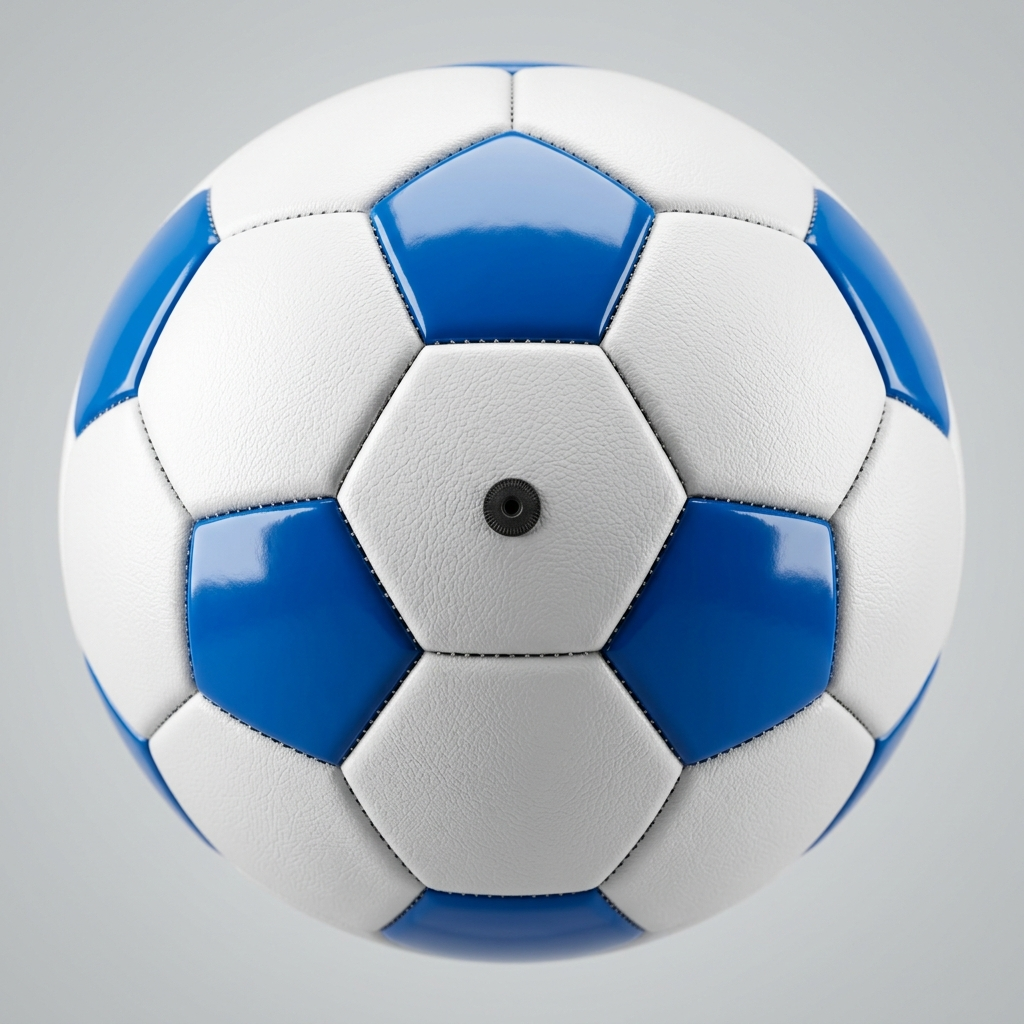
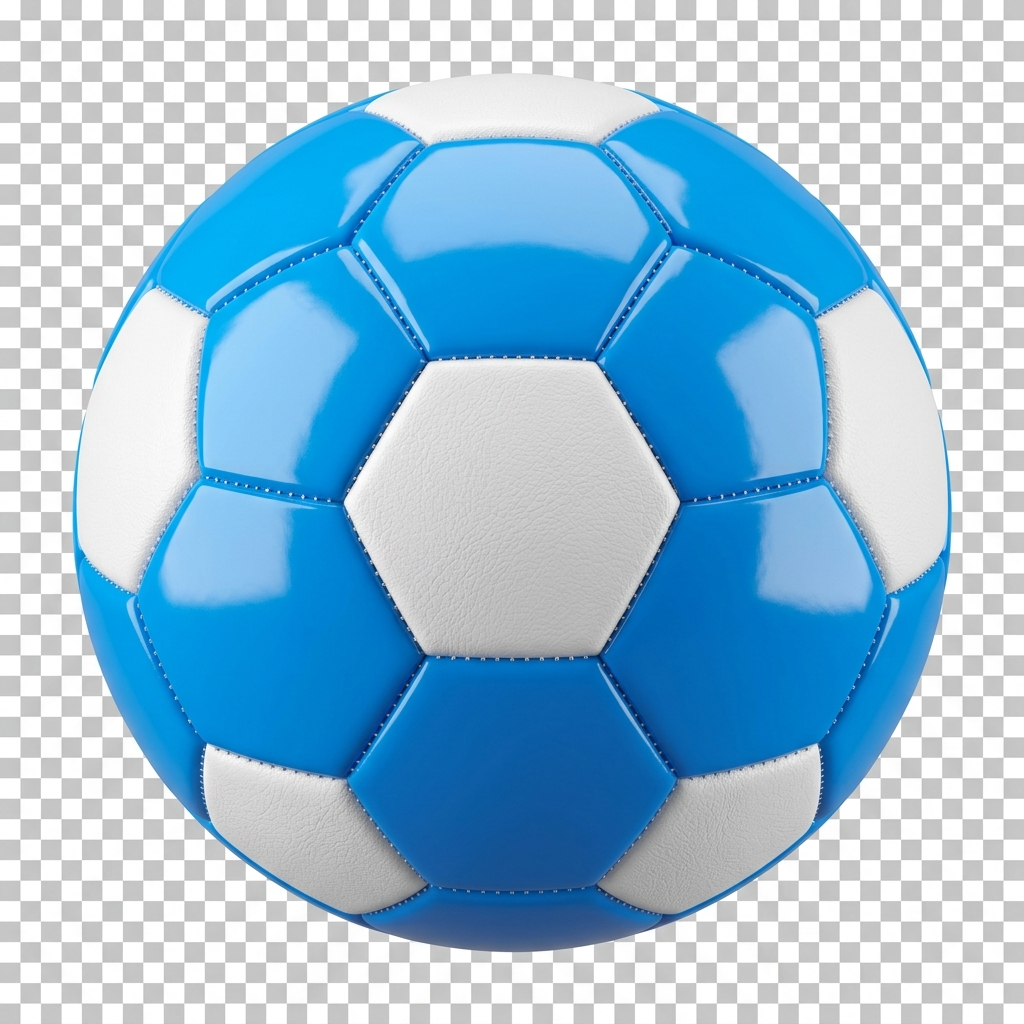
Eliminar borde de circulo exterior del ranking modal y cambiar por balon sin piton de aire

diff --git a/index.html b/index.html
@@ -225,13 +225,13 @@
         }
 
         .ranking-modal-card {
-            background-color: rgba(255, 255, 255, 0.95);
+            background-color: transparent;
             background-image: radial-gradient(circle at 50% 50%, rgba(255, 255, 255, 0.75) 40%, rgba(219, 234, 254, 0.85) 100%), url('pelota_azul.png');
             background-size: cover;
             background-position: center;
             backdrop-filter: blur(15px);
             -webkit-backdrop-filter: blur(15px);
-            border: 3px solid rgba(37, 99, 235, 0.45);
+            border: none;
             border-radius: 50%; /* Balón circular */
             padding: 55px 40px 45px 40px;
             width: 520px;
@@ -240,7 +240,7 @@
             flex-direction: column;
             justify-content: center;
             align-items: center;
-            box-shadow: 0 25px 60px rgba(11, 45, 109, 0.35), inset 0 0 50px rgba(37, 99, 235, 0.15);
+            box-shadow: 0 25px 60px rgba(11, 45, 109, 0.35);
             position: relative;
             animation: scaleIn 0.3s cubic-bezier(0.175, 0.885, 0.32, 1.275);
             color: var(--color-biass-blue);